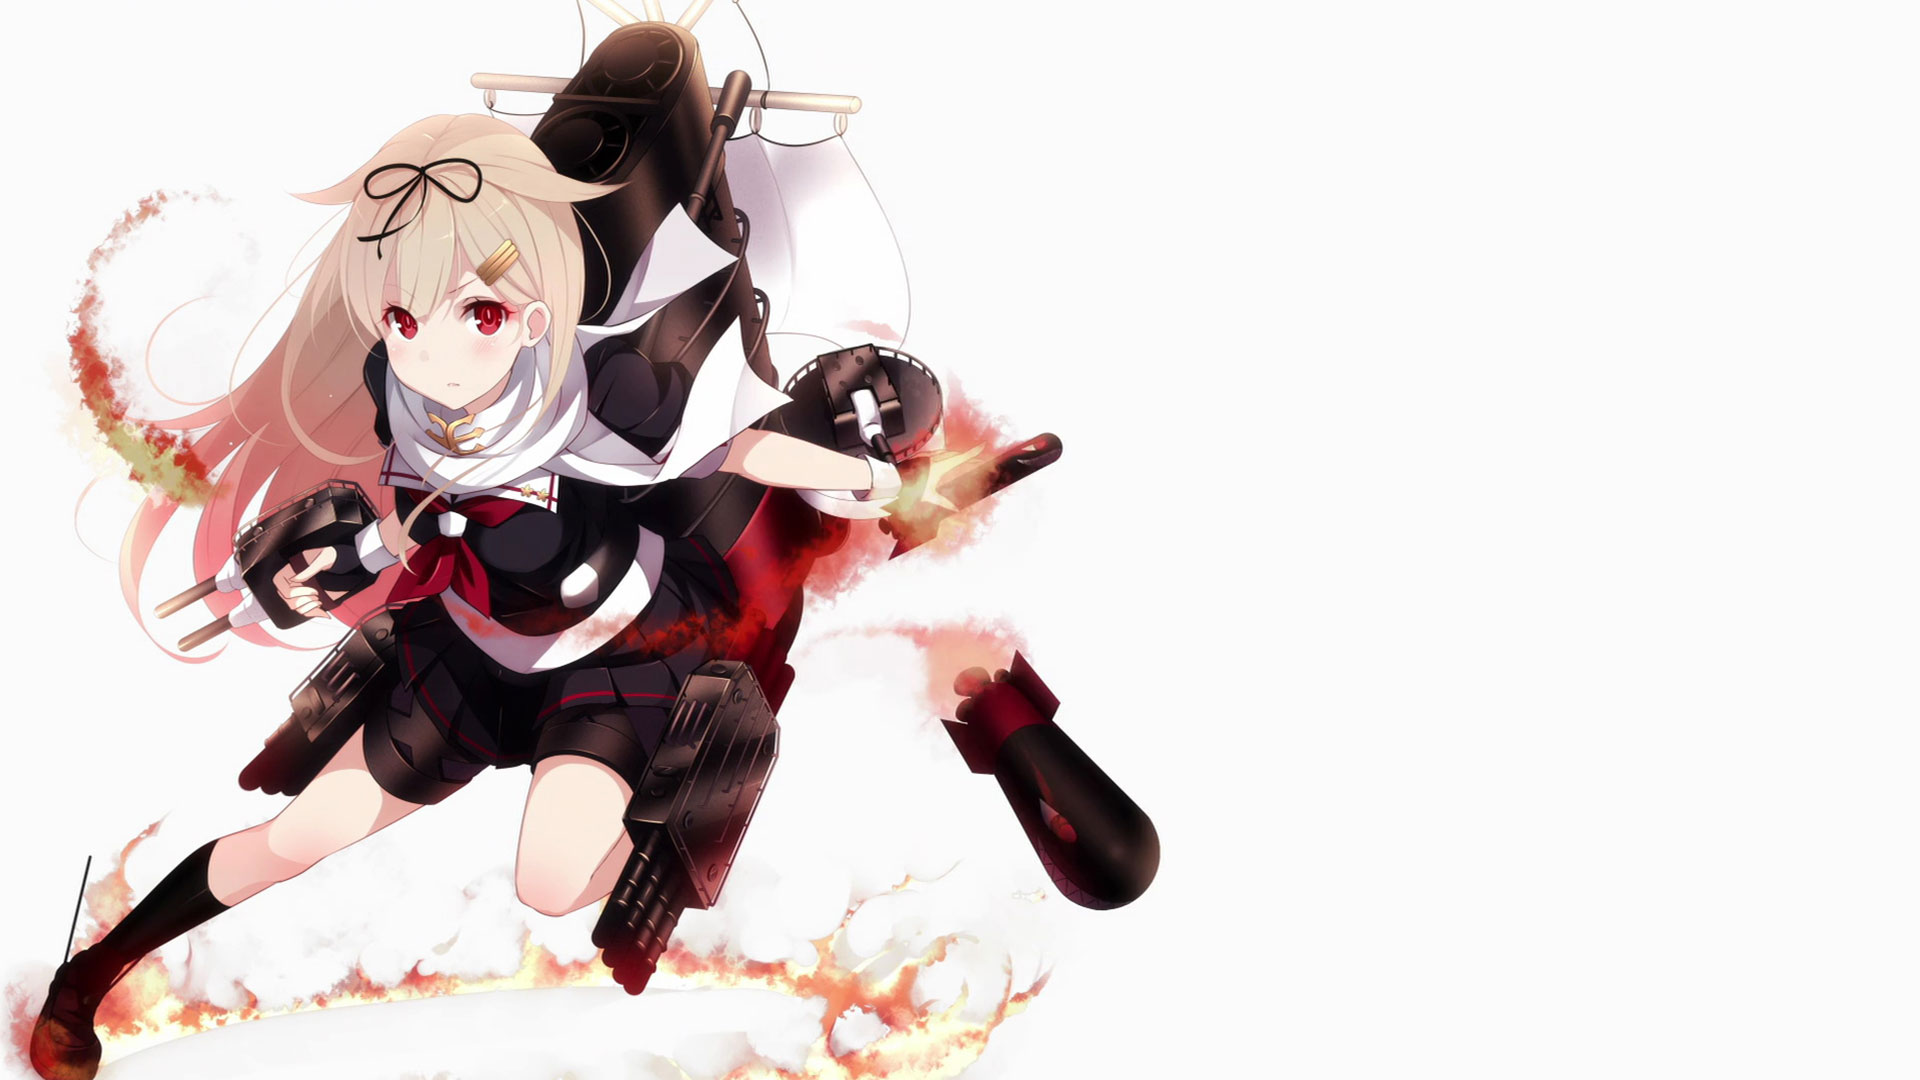
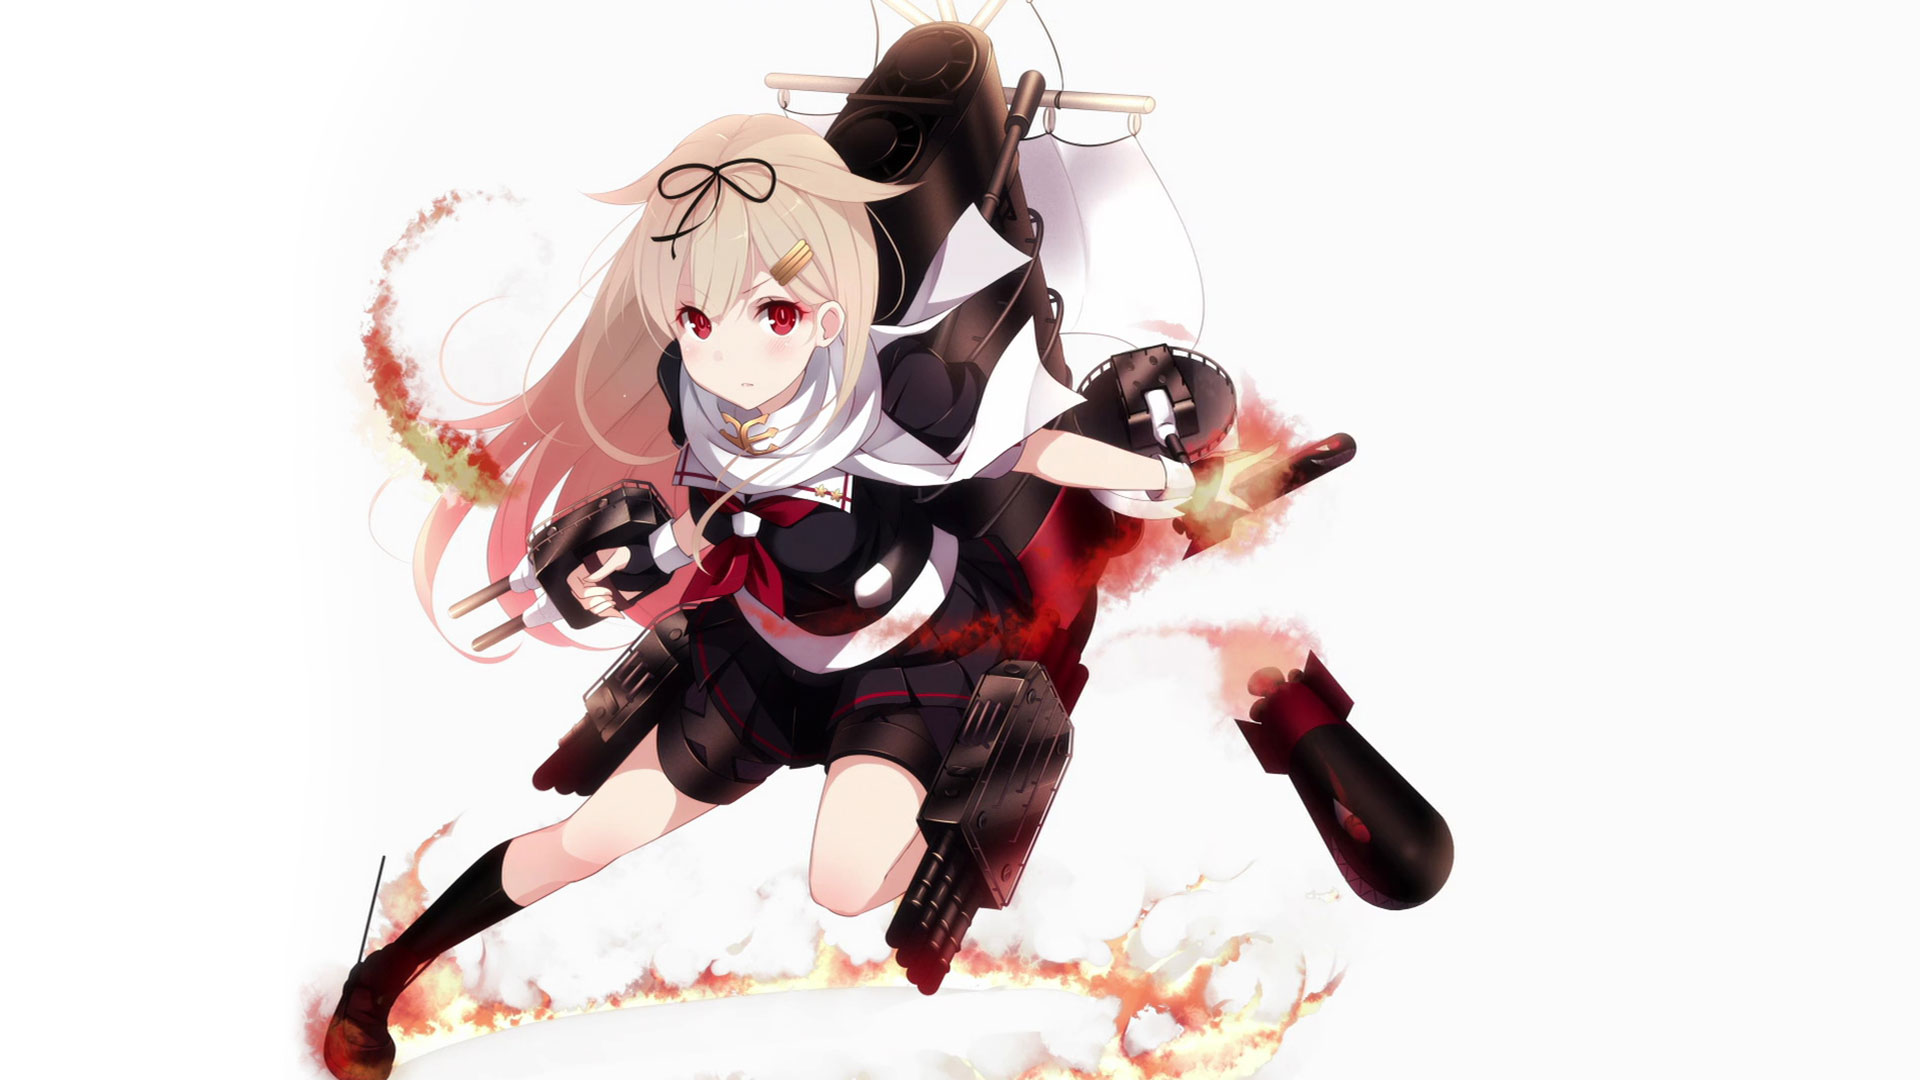
更新背景图

diff --git a/source/js-app/page/about.js b/source/js-app/page/about.js
@@ -4,5 +4,5 @@ _frame.app_main.page['about'].init = function( page ){
 		,latestVersion = latestVersionSection.attr('data-version-app').split('.')
 		,latestVersionSub = latestVersion[0] + '.' + latestVersion[1]
 
-	$('[data-version-app^="'+latestVersionSub+'"]')
+	//$('[data-version-app^="'+latestVersionSub+'"]')
 }
